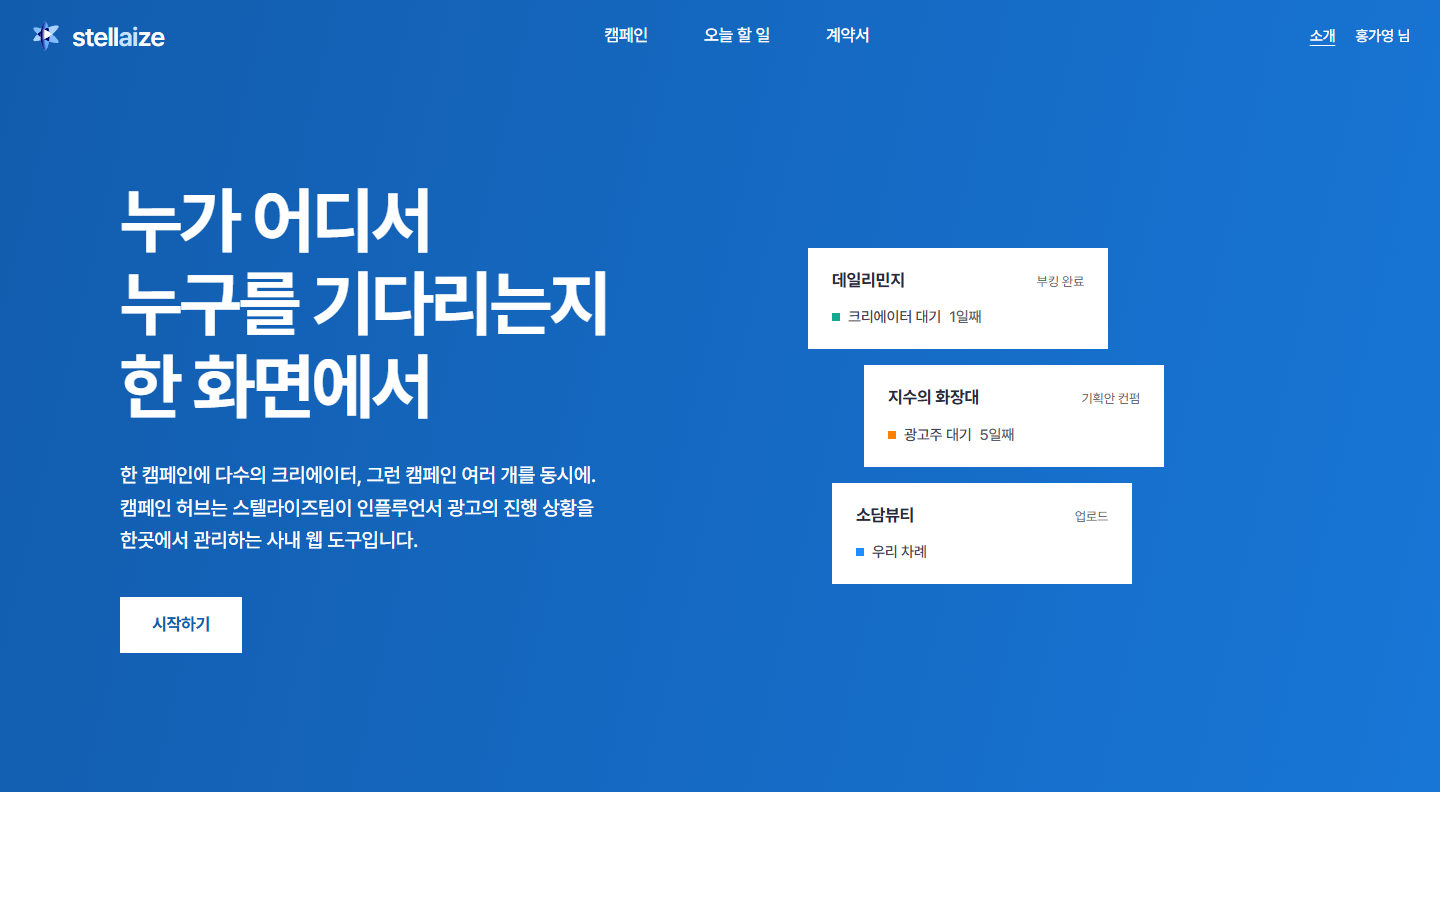
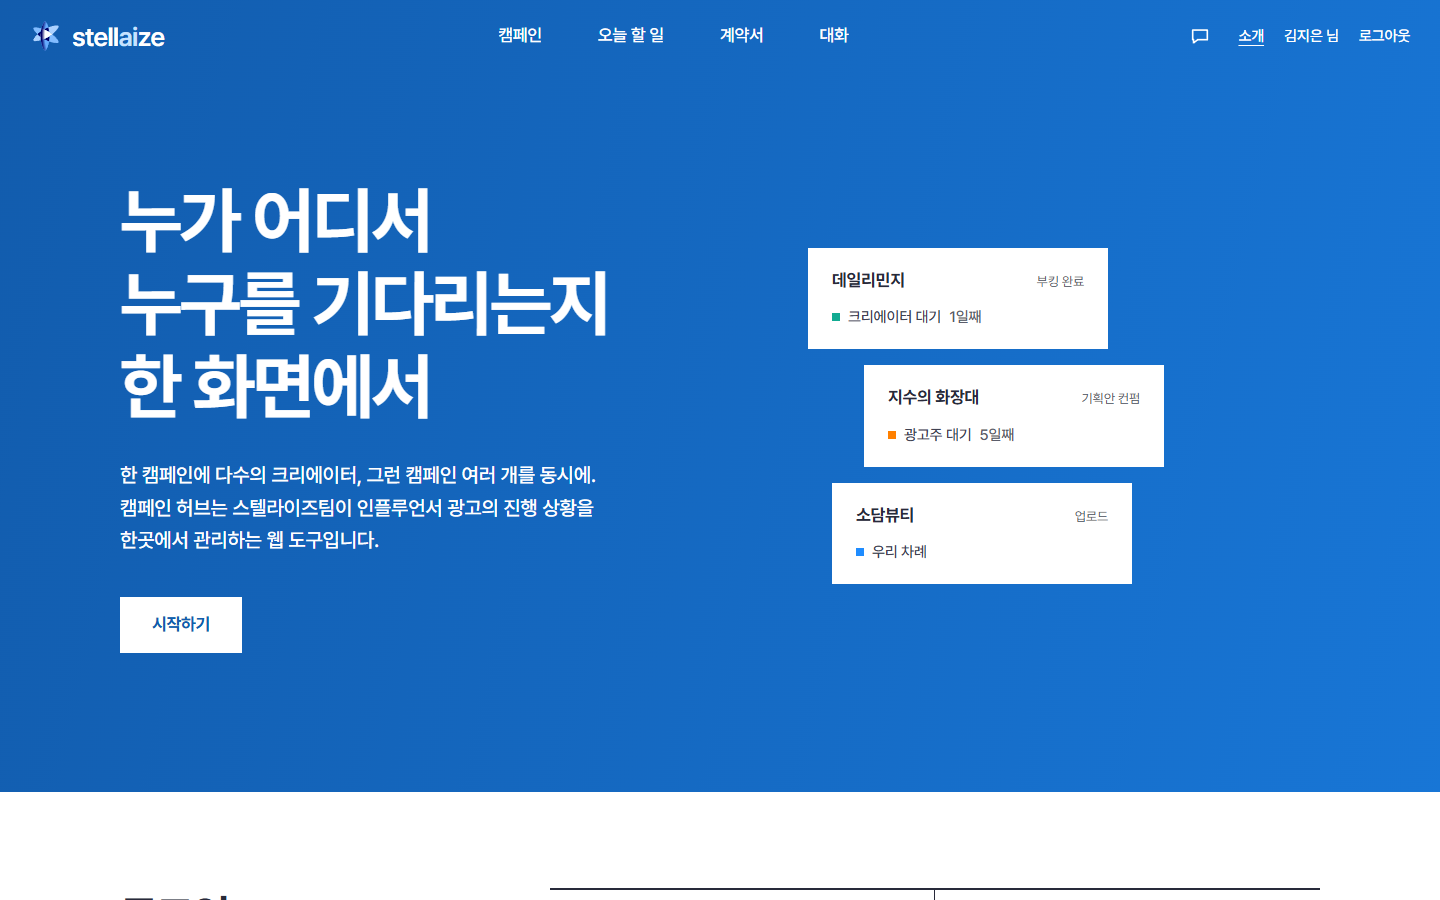
공개 준비: 이름·내부 경로 빼기, 화면 사진을 가짜 이름으로 새로 찍기, 11/19 전후 비교 사진
- README 만든 사람 줄 삭제
- 문서의 팀 내부 드라이브 폴더·파일 이름을 일반 표현으로
- docs/screens: 실제 이름이 찍혀 있던 사진을 지금 화면·예시 데이터·가짜 이름으로 교체
- docs/changes/2026-11-19: 작업 전후 비교 사진 (대화, 휴대폰 캠페인 상세, 마이페이지, 휴대폰 메뉴, 소개)

diff --git a/docs/setup.md b/docs/setup.md
@@ -134,12 +134,12 @@ npm run dev
 - 서버에는 MS Word가 없어 계약서 미리보기는 안 나온다. `.docx` 내려받기는 된다.
 - 아래는 원본(각자 PC) 기준 설명이다.
 
-계약서 자동작성 앱(기획자 제작, 공유 드라이브 `계약서 작성 자동화` 폴더)은 정산서류 개인정보를 다뤄서 **각자 PC에서 `실행.bat`으로 켜고 `http://localhost:8501`에서만** 열린다. 캠페인 허브는 앱을 품지 않고 링크로 연다.
+계약서 자동작성 앱(기획자 제작, 팀 안에서만 배포)은 정산서류 개인정보를 다뤄서 **각자 PC에서 실행 파일로 켜고 `http://localhost:8501`에서만** 열린다. 캠페인 허브는 앱을 품지 않고 링크로 연다.
 
 - 허브의 **계약서 작성** 링크 = `http://localhost:8501/?from=campaign-hub&campaign=…&advertiser=…&upload=…&creator=…`
 - 넘기는 값은 캠페인명·광고주·업로드 날짜·크리에이터명뿐이다. 서류와 개인정보는 허브로 오지 않는다.
 - 계약서 앱이 이 값을 칸에 채우려면 `app.py`에 함수 하나를 넣어야 한다: [docs/contract-app/](contract-app/README.md). 넣기 전에도 링크는 빈 앱을 연다.
-- 실제 계약서 앱 v3.1에 넣어 허브 링크 → 미리 채우기까지 확인했다(2026-11-09). 팀원 PC에서도 채워지게 하려면 배포본(드라이브 zip)의 `app.py`에 같은 수정이 들어가야 한다.
+- 실제 계약서 앱 v3.1에 넣어 허브 링크 → 미리 채우기까지 확인했다(2026-11-09). 팀원 PC에서도 채워지게 하려면 팀 배포본의 `app.py`에 같은 수정이 들어가야 한다.
 - 허브 화면 안에 넣지 않고 **새 탭으로 연다.** 서류를 서버로 올리지 않기 위해 계약서 앱을 허브 서버에 합치지도 않는다.
 - **연동이 여기까지인 이유:** 계약서 앱은 신분증·통장 사본 같은 서류를 다뤄서 각자 PC 안에서만 돈다. 그래서 허브가 할 수 있는 일은 "값을 들고 그 PC의 앱을 여는 것"까지다. 계약서 앱이 꺼져 있으면 링크가 열리지 않고(이슈 #1), 계약서를 만들었는지는 허브로 돌아오지 않아 담당자가 정산 서류 단계를 직접 체크한다. 금액과 PPL 유형은 허브에 넣는 칸이 없어 넘기지 않는다.
 - 앱을 다른 주소로 띄운다면 `.env.local`에 `NEXT_PUBLIC_CONTRACT_APP_URL=http://…`를 넣고 다시 빌드한다.

diff --git a/docs/contract-app/README.md b/docs/contract-app/README.md
@@ -51,7 +51,7 @@
 
 ### 실제 계약서 앱 v3.1에서 (2026-11-09)
 
-드라이브의 `스텔라이즈 계약서 자동작성 시스템_v3.1.zip`을 PC에 풀고, `app.py`에 위 두 곳을 넣은 뒤 `실행.bat`으로 띄웠습니다(첫 설치 약 7분). 캠페인 허브의 글로우핏 캠페인에서 데일리민지의 **계약서 작성**을 누르자 새 탭의 계약서 앱에 아래 값이 채워졌습니다.
+팀에서 쓰는 계약서 앱 v3.1 배포본을 PC에 풀고, `app.py`에 위 두 곳을 넣은 뒤 실행 파일로 띄웠습니다(첫 설치 약 7분). 캠페인 허브의 글로우핏 캠페인에서 데일리민지의 **계약서 작성**을 누르자 새 탭의 계약서 앱에 아래 값이 채워졌습니다.
 
 | 칸 | 값 |
 |---|---|

diff --git a/README.md b/README.md
@@ -134,4 +134,3 @@ npm run dev   # http://localhost:3000
 | [로드맵](https://github.com/iamhiki/stellaize-campaign-hub/issues/7) | 다음에 만들 것 |
 | [정해야 할 것](https://github.com/iamhiki/stellaize-campaign-hub/issues/8) | 회사 · 기획자 확인이 필요한 것 |
 
-만든 사람: 홍가영, 이세연
